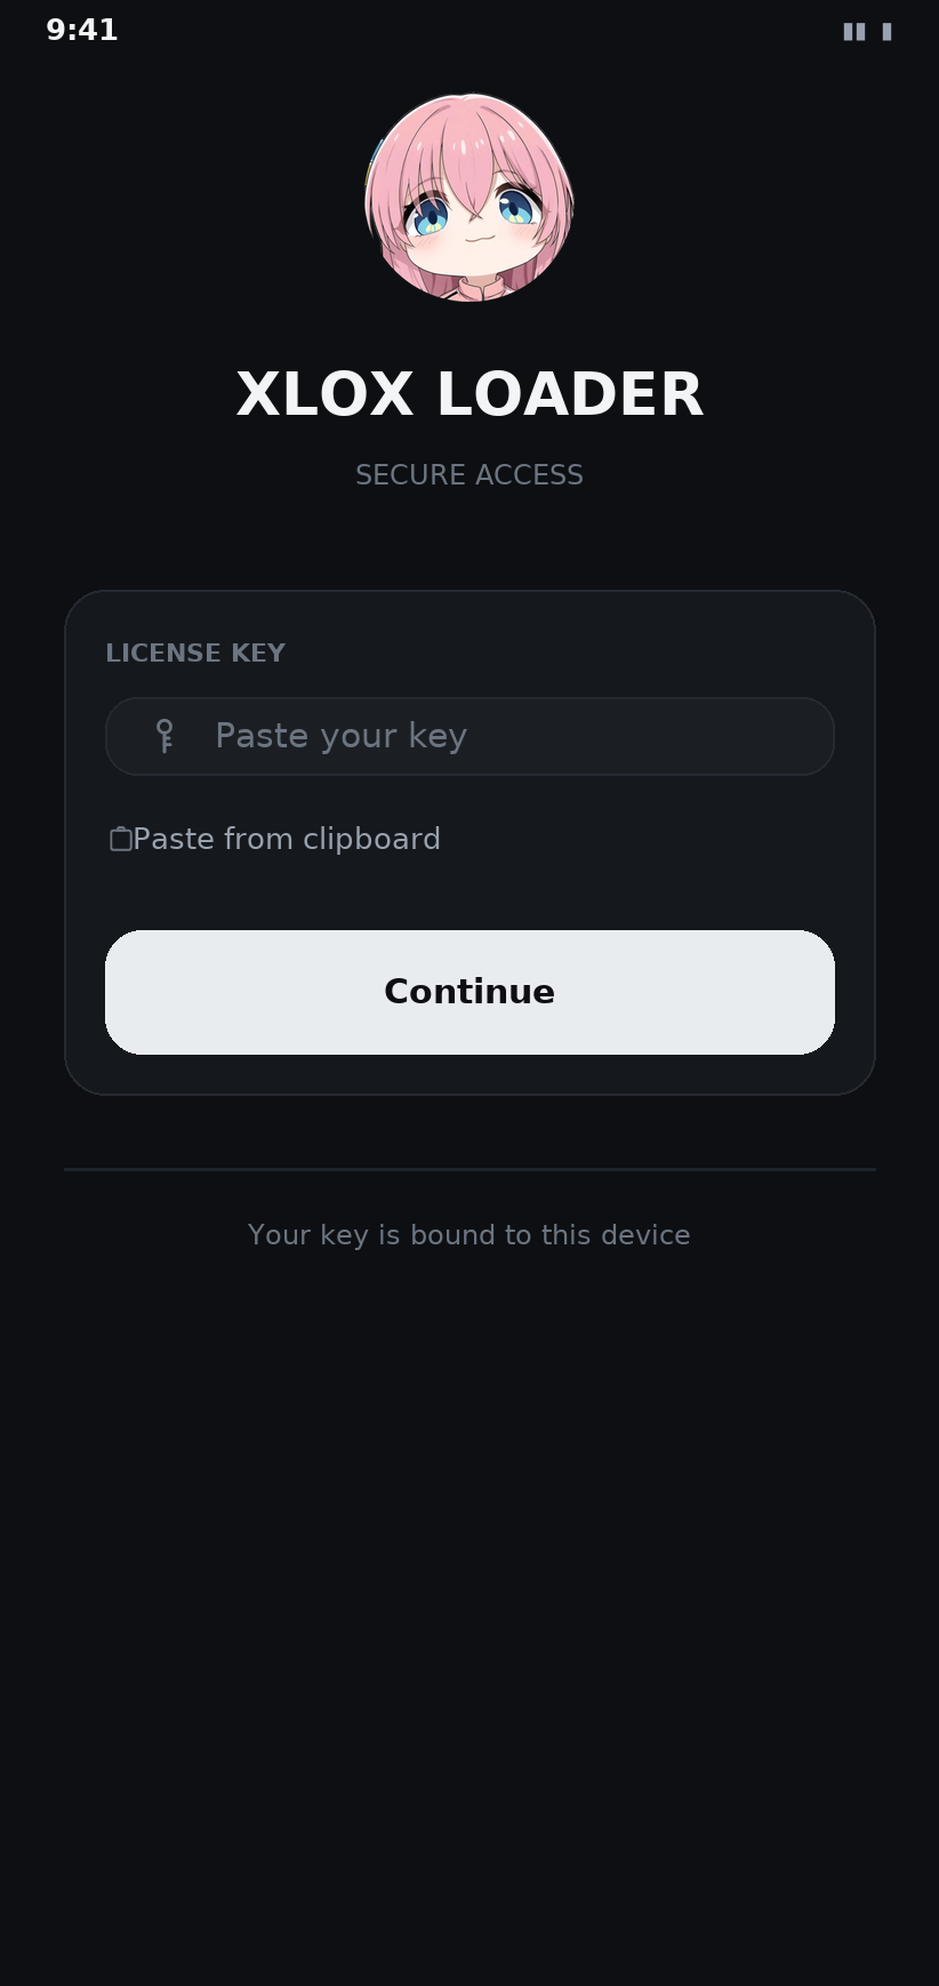
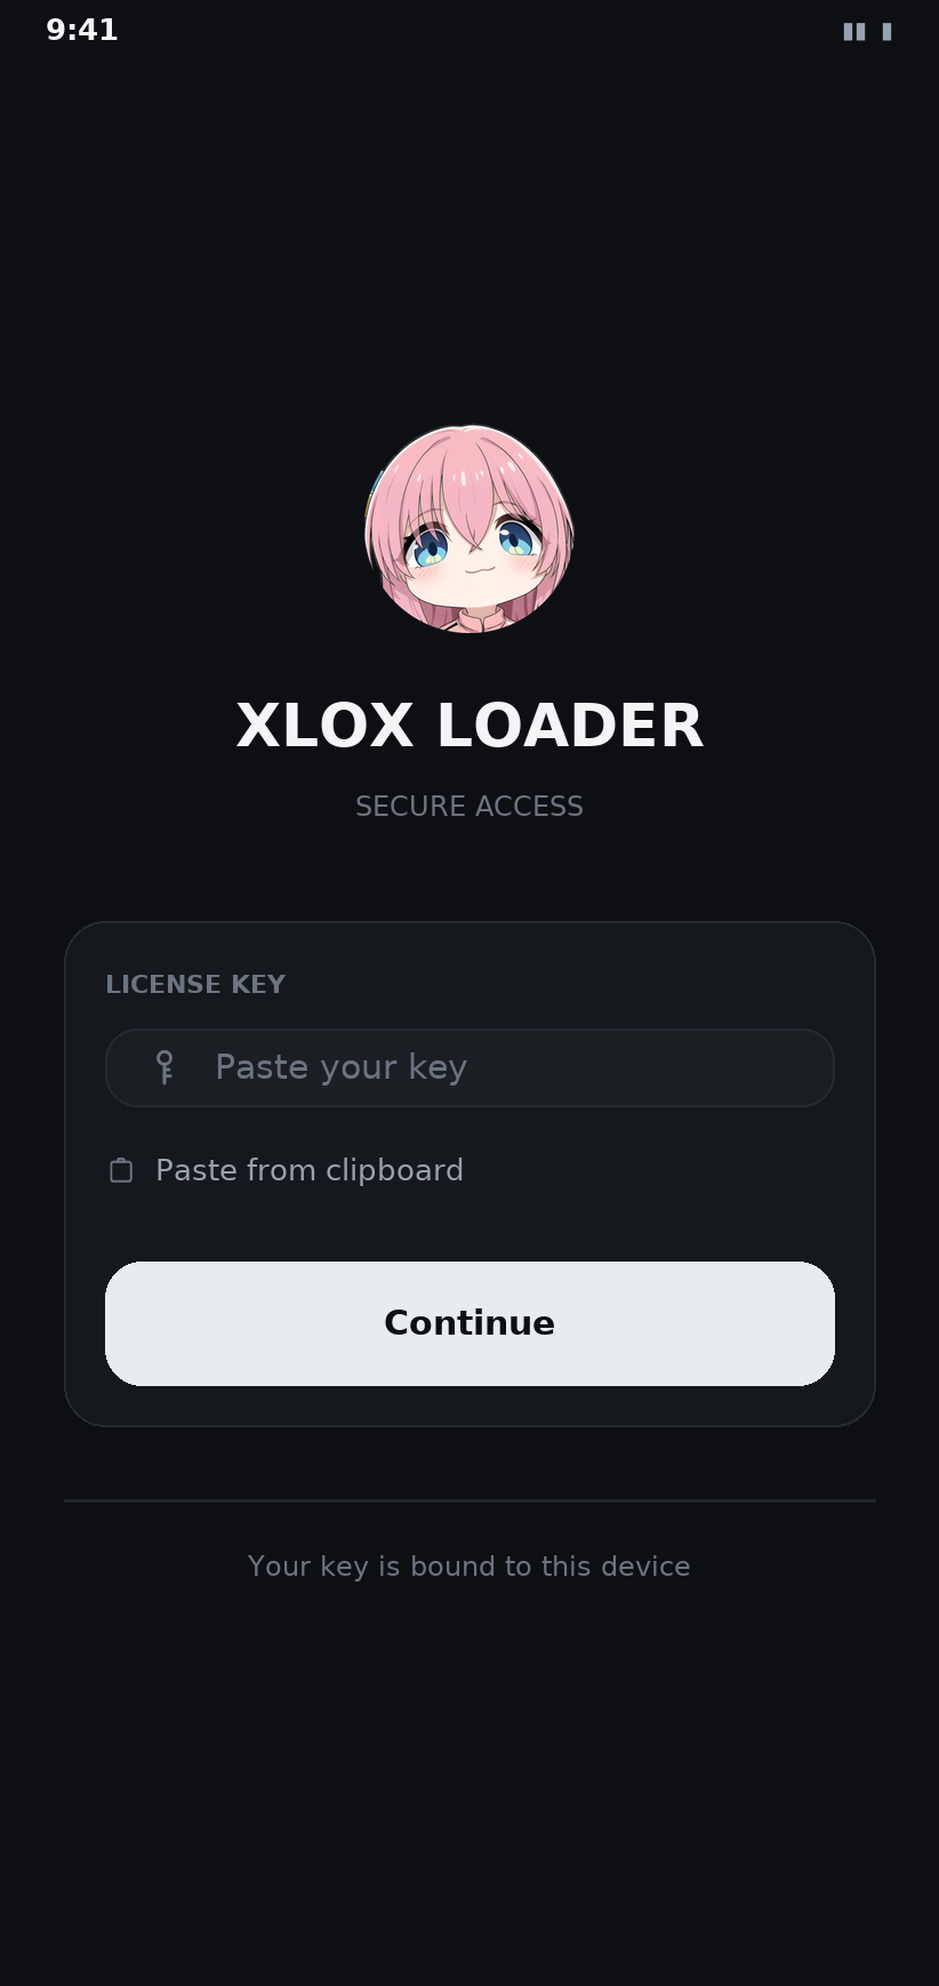
ui: preview the real screens, prune 16 unused assets, rebuild the launcher set
- tools/render_layouts.py now honours scaleType, gone views, <include> weights,
  centered button labels and child gravity, so what it draws is what Compose's
  View layer would draw.
- docs/ui holds the three snapshots plus an overview strip for review.
- dropped 13 icons and 3 legacy light-theme drawables that nothing referenced.
- launcher icons regenerated from the untouched circular mark (the previous
  pass had cropped the top of the artwork).

diff --git a/tools/render_layouts.py b/tools/render_layouts.py
@@ -364,18 +364,20 @@ def measure(node, avail):
     return avail, 0
 
 
-def draw(node, image, x, y, avail, clip_h=None):
+def draw(node, image, x, y, avail, avail_h=None):
     node = inflate(node)
     tag = node.tag.split('.')[-1]
     a = attrs(node)
     w, h = measure(node, avail)
     if dim(node.get(A + 'layout_width')) == 'match':
         w = avail
+    if avail_h is not None and dim(node.get(A + 'layout_height')) == 'match':
+        h = avail_h - y        # the root fills the window, not its content
     pl, pt, pr, pb = padding(node)
 
     if tag == 'ScrollView':
         for k in kids_of(node):
-            draw(k, image, x, y, w)
+            draw(k, image, x, y, w, avail_h=h)
         return h
 
     draw_shape(image, (x, y, x + w, y + h), a.get('background'))
@@ -390,7 +392,14 @@ def draw(node, image, x, y, avail, clip_h=None):
 
     if tag == 'LinearLayout':
         horizontal = a.get('orientation') == 'horizontal'
-        gravity = str(a.get('gravity', ''))
+        gravity = str(a.get('gravity', '')).replace('|', ' ')
+        tokens = gravity.split()
+        if 'center' in tokens:
+            gravity += ' center_horizontal center_vertical'
+        if 'center_horizontal' in tokens and not horizontal:
+            pass
+        if 'fill' in tokens:
+            gravity += ' fill_horizontal'
         kids = kids_of(node)
         inner = w - pl - pr
         weights = 0.0
@@ -429,7 +438,8 @@ def draw(node, image, x, y, avail, clip_h=None):
             for k, kx, cw, mt, mb in laid:
                 kh = measure(k, cw)[1]
                 ky = y + pt + mt
-                if 'center_vertical' in gravity:
+                if 'center_vertical' in gravity.split() or 'center' in gravity.split() \
+                        or 'center_vertical' in str(ka.get('layout_gravity', '')).split():
                     ky = y + pt + (h - pt - pb - kh) // 2
                 draw(k, image, kx, ky, cw)
             return h
@@ -450,13 +460,18 @@ def draw(node, image, x, y, avail, clip_h=None):
             ml, mt, mr, mb = margins(k)
             heights.append((k, cw, kh, mt, mb, ka))
             stack += kh + mt + mb
-        if 'center_vertical' in gravity:
+        if 'center_vertical' in gravity.split() or 'center' in gravity.split():
             cy = y + pt + max(0, (h - pt - pb - stack) // 2)
         for k, cw, kh, mt, mb, ka in heights:
             own = dim(inflate(k).get(A + 'layout_width'))
-            if 'center_horizontal' in gravity and own != 'match':
+            g = gravity + ' ' + str(ka.get('layout_gravity', '')).replace('|', ' ')
+            if 'center' in g.split() or 'center_horizontal' in g.split():
+                pass
+            else:
+                g = gravity
+            if ('center_horizontal' in g.split() or 'center' in g.split()) and own != 'match':
                 kx = x + (w - cw) // 2
-            elif 'end' in gravity or 'right' in gravity:
+            elif 'end' in g.split() or 'right' in g.split():
                 kx = x + w - pr - cw
             else:
                 kx = cx
@@ -510,10 +525,11 @@ def draw(node, image, x, y, avail, clip_h=None):
             if im:
                 image.alpha_composite(im, (tx, y + (h - im.height) // 2))
                 tx += im.width + px(size_of(a.get('drawablePadding'), 7))
-        if 'center' in gravity:
+        tokens = gravity.replace('|', ' ').split()
+        if 'center' in tokens or 'center_horizontal' in tokens:
             tx = x + w // 2
             anchor = 'mm'
-        elif 'end' in gravity or 'right' in gravity:
+        elif 'end' in tokens or 'right' in tokens:
             tx = x + w - pr
             anchor = 'rm'
         if text:
@@ -546,7 +562,7 @@ def main():
         h = px(height_dp)
         image = Image.new('RGBA', (w, h), color('@color/bg'))
         root = ET.parse(os.path.join(RES, 'layout', layout)).getroot()
-        draw(root, image, 0, 0, w)
+        draw(root, image, 0, 0, w, avail_h=h)
         canvas = Image.new('RGBA', (w, h), color('@color/bg'))
         canvas.alpha_composite(image)
         status_bar(canvas)
